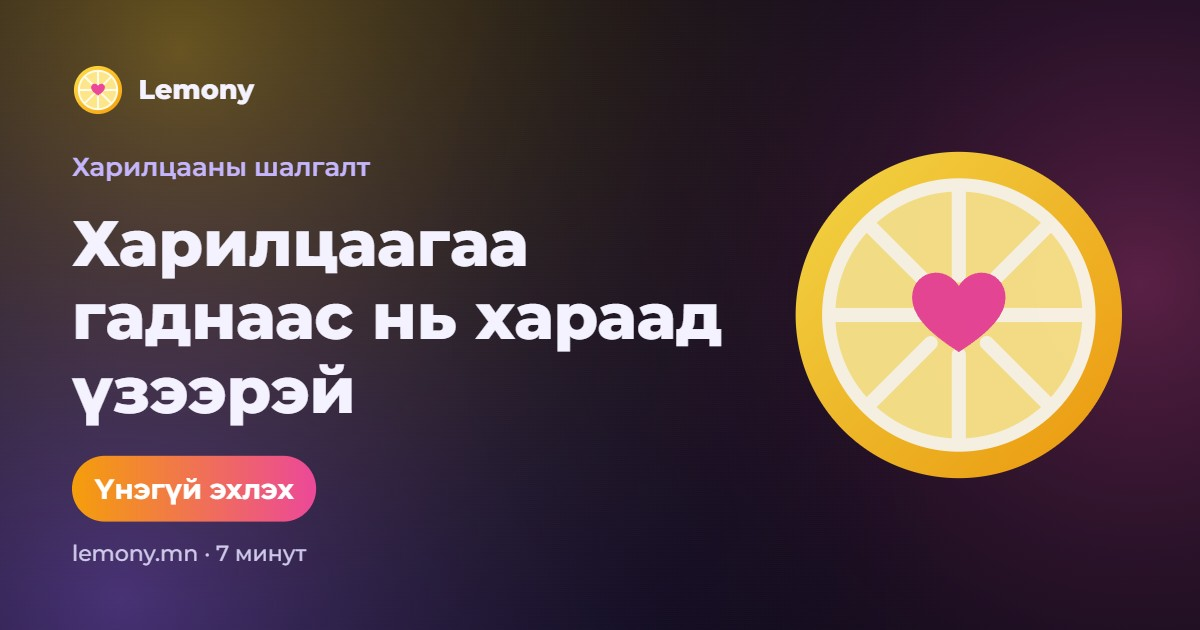
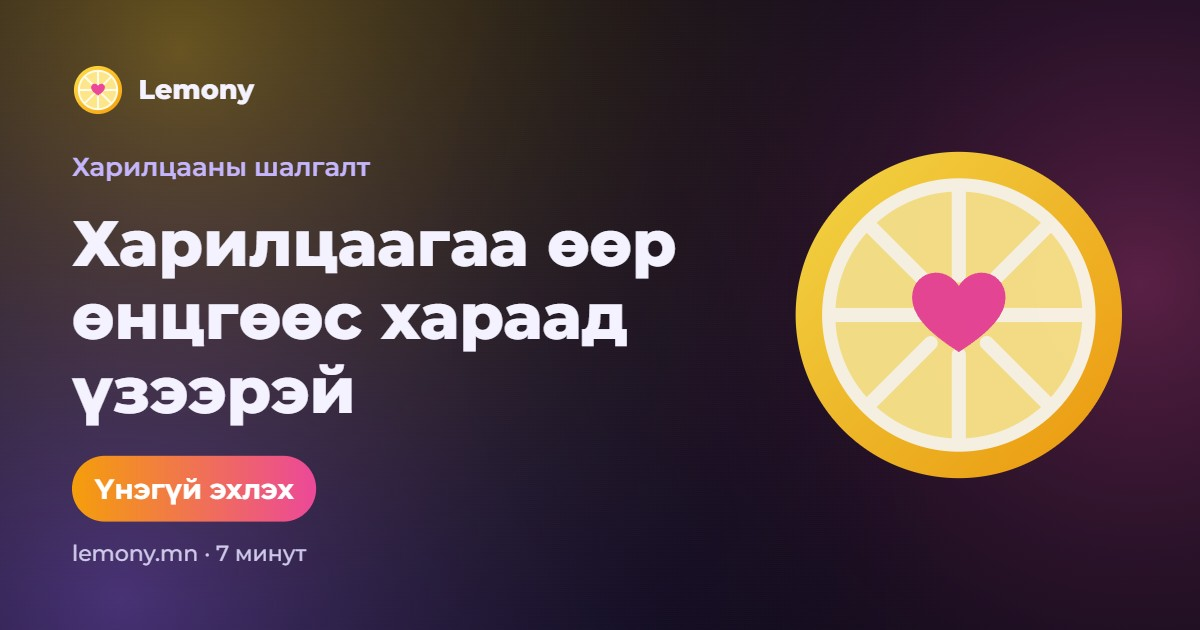
Headline: "Харилцаагаа өөр өнцгөөс хараад үзээрэй"
Also in the page title, link-preview texts and the og.jpg preview image.

Changed region(s): [[0.0617, 0.4825, 0.6167, 0.573], [0.4317, 0.3619, 0.5858, 0.4524]]

diff --git a/frontend/index.html b/frontend/index.html
@@ -8,19 +8,19 @@
     <meta property="og:url" content="https://lemony.mn" />
     <meta name="color-scheme" content="dark" />
     <meta name="referrer" content="strict-origin-when-cross-origin" />
-    <title>Lemony — Харилцаагаа гаднаас нь хараад үзээрэй</title>
+    <title>Lemony — Харилцаагаа өөр өнцгөөс хараад үзээрэй</title>
     <meta
       name="description"
       content="Хэдэн асуултад хариулаад, та хоёрын хооронд юу болоод байгаа, цаашаа юу хийж болохыг ойлгоорой."
     />
     <meta property="og:title" content="Lemony — харилцааны шалгалт" />
-    <meta property="og:description" content="Харилцаагаа гаднаас нь хараад үзээрэй. 7 минутын асуулт, хувийн тайлан." />
+    <meta property="og:description" content="Харилцаагаа өөр өнцгөөс хараад үзээрэй. 7 минутын асуулт, хувийн тайлан." />
     <meta property="og:type" content="website" />
     <!-- Preview image for Messenger / Facebook / Telegram links (made with src/lib/shareCard.ts, "link" format). -->
     <meta property="og:image" content="https://lemony.mn/og.jpg" />
     <meta property="og:image:width" content="1200" />
     <meta property="og:image:height" content="630" />
-    <meta property="og:image:alt" content="Lemony — харилцаагаа гаднаас нь хараад үзээрэй" />
+    <meta property="og:image:alt" content="Lemony — харилцаагаа өөр өнцгөөс хараад үзээрэй" />
     <meta property="og:locale" content="mn_MN" />
     <meta name="twitter:card" content="summary_large_image" />
     <link rel="icon" type="image/svg+xml" href="/favicon.svg" />

diff --git a/frontend/src/pages/LandingPage.tsx b/frontend/src/pages/LandingPage.tsx
@@ -22,7 +22,7 @@ type View = Track | 'both'
 const HERO: Record<View, { before: string; highlight: string; after: string; text: string }> = {
   both: {
     before: 'Харилцаагаа ',
-    highlight: 'гаднаас нь',
+    highlight: 'өөр өнцгөөс',
     after: ' хараад үзээрэй',
     text: 'Дөнгөж танилцаж байгаа ч, олон жил хамт байгаа ч — хэдэн асуултад хариулаад, та хоёрын хооронд юу болоод байгааг ойлгоорой.',
   },
@@ -34,7 +34,7 @@ const HERO: Record<View, { before: string; highlight: string; after: string; tex
   },
   couple: {
     before: 'Харилцаагаа ',
-    highlight: 'гаднаас нь',
+    highlight: 'өөр өнцгөөс',
     after: ' хараад үзээрэй',
     text: 'Ганцаараа хичээж байгаа юм шиг санагдаж байна уу? Эсвэл зүгээр л зөв замаар явж байгаа эсэхээ мэдмээр байна уу? Хэдэн асуултад хариулаад, та хоёрын хооронд юу болоод байгааг ойлгоорой.',
   },
